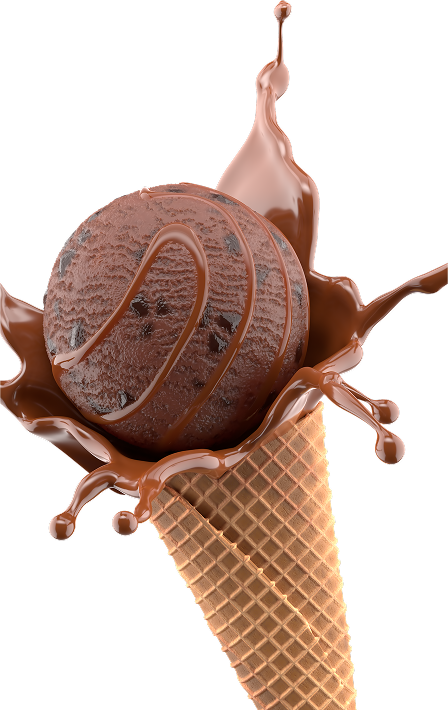
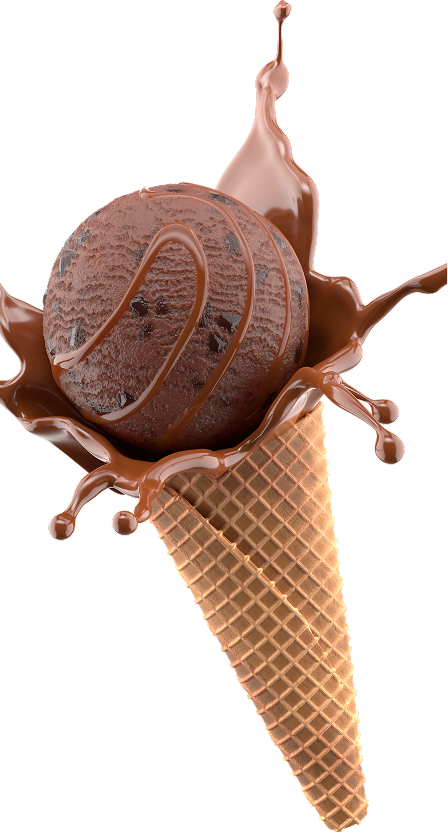
feat: :lipstick: Se agregaron las imágenes y el eslogan

diff --git a/src/css/style.css b/src/css/style.css
@@ -55,3 +55,40 @@ body{
   align-items: center;
   gap: 33px;
 }
+.div__product{
+  grid-area: pre;
+  background: blueviolet;
+  width: 900px;
+  height: 663px;
+  top: 81px;
+  position: relative;
+}
+.div__product > img{
+  position: absolute;
+  right: 0;
+}
+.div__iceCreams img:nth-child(1),
+.div__iceCreams img:nth-child(2),
+.div__iceCreams img:nth-child(3){
+  position: absolute;
+  height: 663px;
+  object-fit: contain;
+  bottom: 0;
+}
+.div__iceCreams img:nth-child(1){
+  transform: rotate(85.74deg);
+  z-index: 5;
+  left: 0;
+  bottom: -225px;
+}
+.div__iceCreams img:nth-child(2){
+  transform: rotate(57.18deg);
+  z-index: 10;
+  left: 30px;
+  bottom: -60px;
+}
+.div__iceCreams img:nth-child(3){
+  transform: rotate(32.69deg);
+  z-index: 5;
+  left: -120px;
+}

diff --git a/index.html b/index.html
@@ -22,6 +22,14 @@
         <img src="src/storage/img/Search.png">
         <img src="src/storage/img/Shop.png">
     </div>
+    <div class="div__product">
+        <img src="src/storage/img/Slogan.png">
+        <div class="div__iceCreams">
+            <img src="src/storage/img/IceCream1.png">
+            <img src="src/storage/img/IceCream2.png">
+            <img src="src/storage/img/IceCream3.png">
+        </div>
+    </div>
     <div class="div__info">5</div>
 </body>
 </html>
